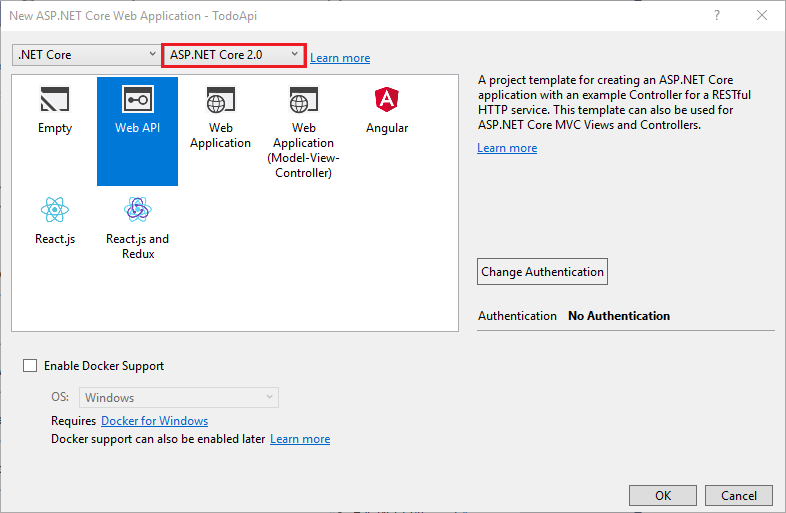
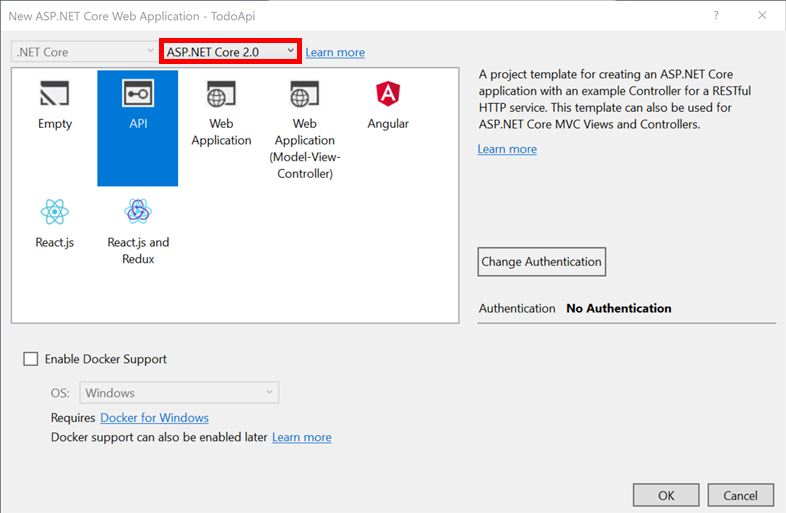
Core First Web API template selection update to match Visual Studio dialogs (#5633)
* update: new project instructions to match dialog

* update: template options image to match current dialog

* update: image size to 786x513

diff --git a/aspnetcore/tutorials/first-web-api.md b/aspnetcore/tutorials/first-web-api.md
@@ -37,11 +37,11 @@ See [this PDF](https://github.com/aspnet/Docs/blob/master/aspnetcore/tutorials/f
 
 From Visual Studio, select **File** menu, > **New** > **Project**.
 
-Select the **ASP.NET Core Web Application (.NET Core)** project template. Name the project `TodoApi` and select **OK**.
+Select **.NET Core** >  **ASP.NET Core Web Application** project template. Name the project `TodoApi` and select **OK**.
 
 ![New project dialog](first-web-api/_static/new-project.png)
 
-In the **New ASP.NET Core Web Application - TodoApi** dialog, select the **Web API** template. Select **OK**. Do **not** select **Enable Docker Support**.
+In the **New ASP.NET Core Web Application - TodoApi** dialog, select the **API** template. Select **OK**. Do **not** select **Enable Docker Support**.
 
 ![New ASP.NET Web Application dialog with Web API project template selected from ASP.NET Core Templates](first-web-api/_static/web-api-project.png)
 
